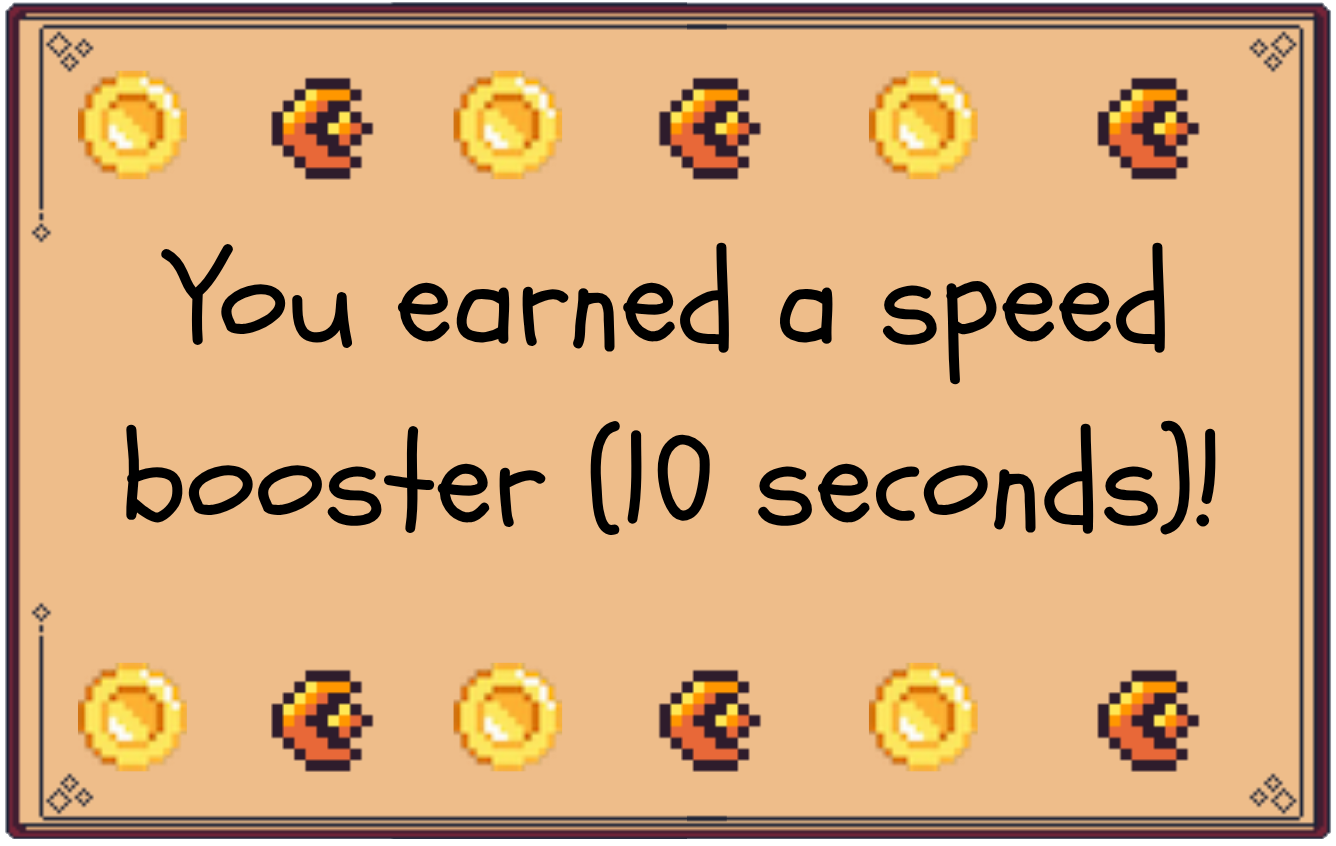
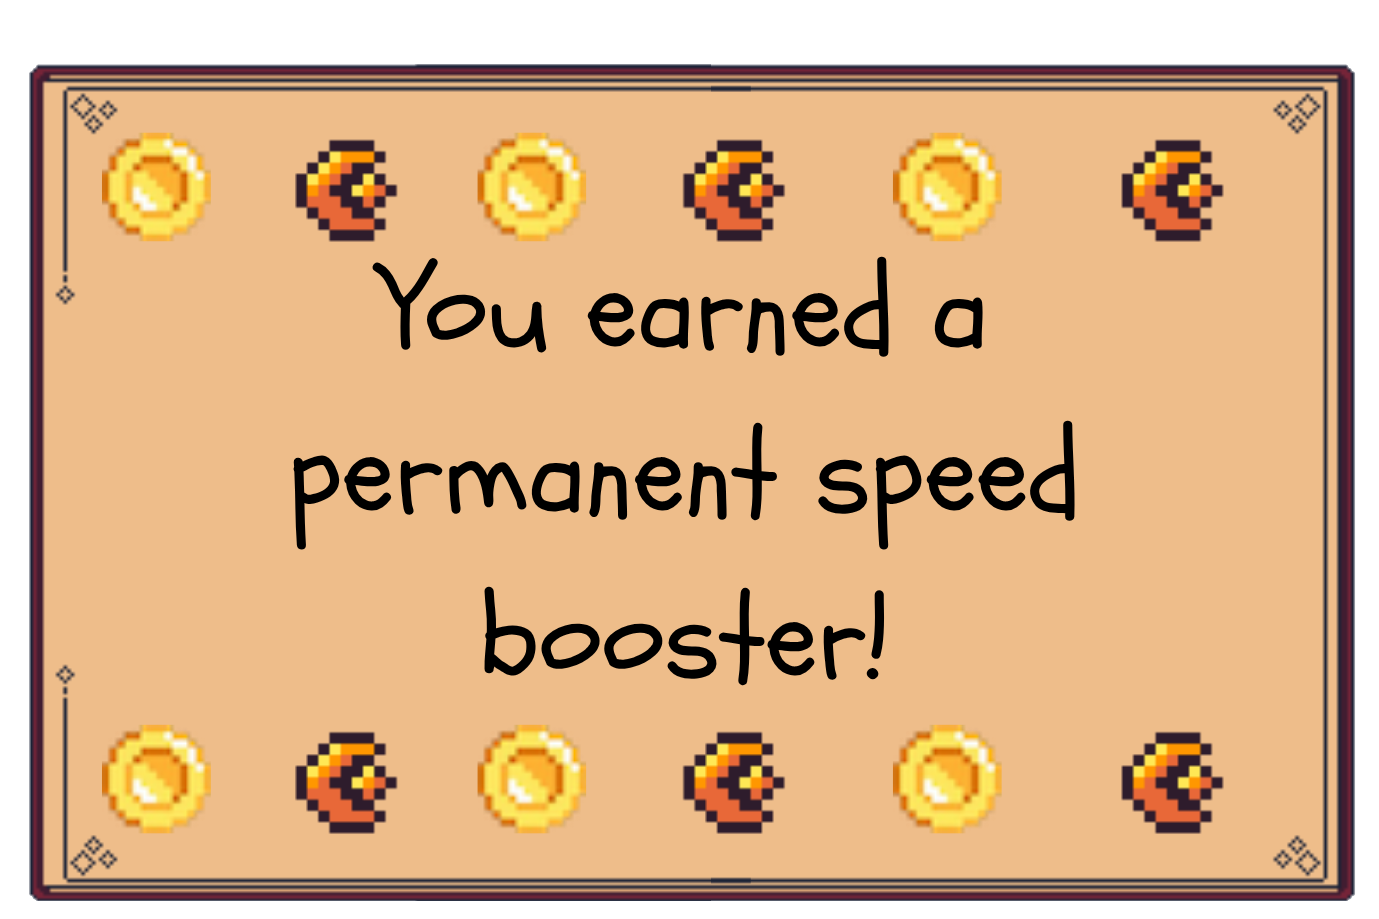
changes

diff --git a/ShopWorld.java b/ShopWorld.java
@@ -35,7 +35,7 @@ public class ShopWorld extends World
 
         cursor = new Cursor(false);
         addObject(cursor, 0, 0); 
-        
+
         upgradeCostDamageToEnemy = 20;
         upgradeCostDamageIntake = 20;
         upgradeCostHealth = 20; 
@@ -65,9 +65,9 @@ public class ShopWorld extends World
         buyChestbox = new Button (cursor, true, 15); 
         addObject(buyChestbox, 578, 585);
 
-        damageToEnemyStats = new ImageDisplay("Damage to Enemy: " + damageToEnemy, 22); 
-        damageIntakeStats = new ImageDisplay("Damage Intake Stats: " + damageIntake, 20); 
-        healthStats = new ImageDisplay("Health Stats: " + health, 22); 
+        damageToEnemyStats = new ImageDisplay("Damage to Enemy: " + player.getDmg(), 22); 
+        damageIntakeStats = new ImageDisplay("Damage Intake Stats: " + player.getWeaponDmg(), 20); 
+        healthStats = new ImageDisplay("Health Stats: " + player.getHealth(), 22); 
 
         addObject(damageToEnemyStats, 824, 620); 
         addObject(damageIntakeStats, 825, 650);
@@ -104,7 +104,7 @@ public class ShopWorld extends World
     public void act()
     {
         addObject(player, 820, 560); 
-        player.animate(); 
+        //player.animate(); 
         checkPurchase();
         removePopUp(); 
         purchase();
@@ -133,32 +133,35 @@ public class ShopWorld extends World
         if(Greenfoot.mouseClicked(upgradeArmor) ||Greenfoot.mouseClicked(upgradeWeapon) || Greenfoot.mouseClicked(upgradeHealth))
         {
             addObject(upgradePopUp, 500, 455);
-            addObject(deletePopUp, 740, 295); 
+            addObject(deletePopUp, 740, 300); 
         }
         else if (Greenfoot.mouseClicked(buyChestbox))
         {
-            int i = Greenfoot.getRandomNumber(2);
-            String fileName; 
+            int i = Greenfoot.getRandomNumber(3);
+            String fileName = "placeholder"; 
             if (i == 0)
             {
                 fileName = "speedPopup.png";
+                player.setSpeed(13); 
             }
             else if (i==1)
             {
-                fileName = "invisibilityPopup.png";
+                fileName = "invincibilityPopup.png";
             }
-            else 
+            else if(i==2)
             {
-                fileName = "invisibilityPopup.png";
+                fileName = "bomb.png";
+                player.setHealth(10); 
+                updateStats();
             }
 
             chestboxPopUp = new ImageDisplay(fileName, 500, 340); 
             addObject (chestboxPopUp , 500, 455);
-            addObject(deletePopUp, 740, 295); 
+            addObject(deletePopUp, 740, 310); 
 
         }
     }
-    
+
     public void purchase(){
         if (Greenfoot.mouseClicked(upgradeArmor)) {
             if (coins >= upgradeCostDamageIntake) {
@@ -190,14 +193,14 @@ public class ShopWorld extends World
             if (coins >= cost) {
                 coins -= cost;
                 int i = Greenfoot.getRandomNumber(2);
-                String fileName = (i == 0) ? "speedPopup.png" : "invisibilityPopup.png";
+                String fileName = (i == 0) ? "speedPopup.png" : (i == 1) ? "invisibilityPopup.png" : "bomb.png";                
                 chestboxPopUp = new ImageDisplay(fileName, 500, 340); 
                 addObject (chestboxPopUp , 500, 455);
-                addObject(deletePopUp, 740, 295); 
+                addObject(deletePopUp, 740, 300); 
             }
         }
     }
-    
+
     public void updateStats() {
         damageToEnemyStats = new ImageDisplay("Damage to Enemy: " + player.getWeaponDmg(), 22);
         healthStats = new ImageDisplay("Health Stats: " + health, 22); 

diff --git a/Player.java b/Player.java
@@ -17,6 +17,8 @@ public class Player extends HurtableEntity {
     // the number of enemies killed
     private int killed;
     private int weaponDmg;
+    
+    private int tempSpeed;
 
     public Player() {
         super(SettingsWorld.getPlayerSkinImage(), 192);
@@ -40,6 +42,8 @@ public class Player extends HurtableEntity {
 
         attackSound = new GreenfootSound("player_attack.wav");
         attackSound.setVolume(70);
+        
+        tempSpeed = 10; 
 
         if(SettingsWorld.getDifficultiyLevelImage() == 0)
         {
@@ -111,6 +115,11 @@ public class Player extends HurtableEntity {
         centreOn(this);
         updateLocation();
     }
+    
+    public void setSpeed(int newSpeed)
+    {
+        tempSpeed = newSpeed; 
+    }
 
     public void pickUpCoin() {
         coins++;
@@ -128,22 +137,22 @@ public class Player extends HurtableEntity {
 
             if (Greenfoot.isKeyDown("a")) {
                 direction = 1;
-                xSpeed = -10;
+                xSpeed = -tempSpeed;
             }
 
             if (Greenfoot.isKeyDown("d")) {
                 direction = 0;
-                xSpeed = 10;
+                xSpeed = tempSpeed;
             }
 
             if (Greenfoot.isKeyDown("w")) {
                 direction = 2;
-                ySpeed = -10;
+                ySpeed = -tempSpeed;
             }
 
             if (Greenfoot.isKeyDown("s")) {
                 direction = 3;
-                ySpeed = 10;
+                ySpeed = tempSpeed;
             }
         }
 
@@ -213,7 +222,7 @@ public class Player extends HurtableEntity {
     public int getCoin() {
         return coins;
     }
-
+    
     public void earnCoin() {
         Actor p = getOneIntersectingObject(Coin.class);
         if (p != null) {
@@ -224,6 +233,7 @@ public class Player extends HurtableEntity {
     public void updateCoin()
     {
         SettingsWorld.setUserInfoInt(3, coins); 
+        SettingsWorld.storeInfo(); 
     }
 
     public int getKilled() {

diff --git a/Scroller.java b/Scroller.java
@@ -24,7 +24,7 @@ public class Scroller extends SuperSmoothMover
     @Override
     protected void addedToWorld(World w) {
         if(isNew) {
-            w = (MyWorld)getWorld();
+            w = getWorld();
             player = getWorld().getObjects(Player.class).get(0);
             realX = getX();
             realY = getY();

diff --git a/MyWorld.java b/MyWorld.java
@@ -128,6 +128,8 @@ public class MyWorld extends World
     public void act(){
         actNum++;
         if (actNum % 60 == 0) counter2.add(-1); // Decrement the counter by 1
+        
+        showText(Integer.toString(player.getHealth()), 200, 300); 
     }
 
     public Player getPlayer() {

diff --git a/SettingsWorld.java b/SettingsWorld.java
@@ -149,9 +149,9 @@ public class SettingsWorld extends World
         difficultyLevelNumber = x; 
     }
 
-    public static void getUserInfo()
+    public static void storeInfo()
     {
-
+        user.store(); 
     }
 
     protected class StatChooseImage
